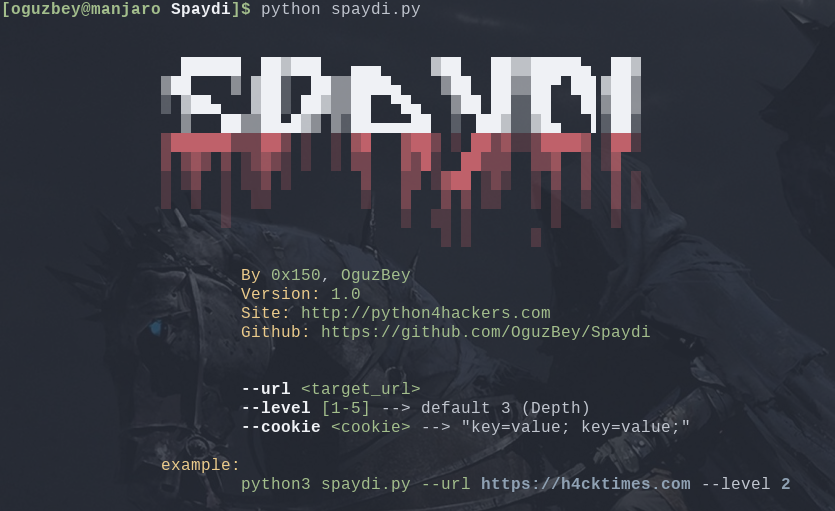
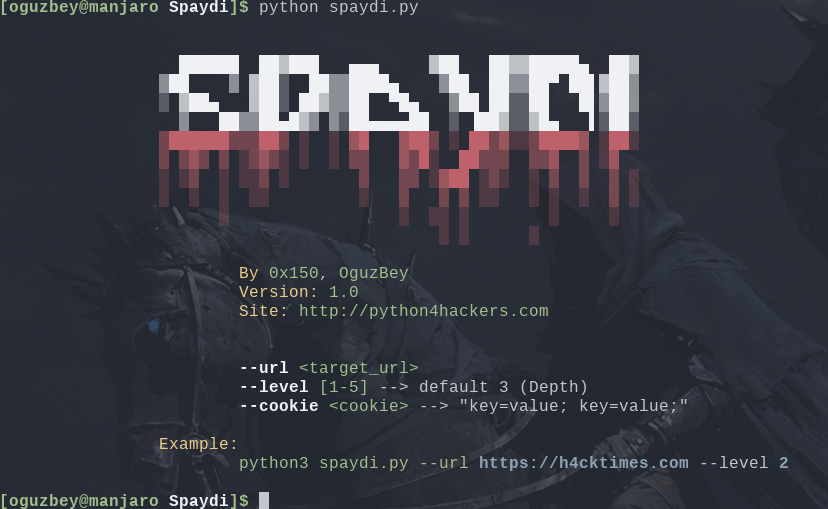
1.1.0
Screen shots

diff --git a/spaydi.py b/spaydi.py
@@ -1,9 +1,10 @@
 __author__ = "OguzBey"
-__version__ = "1.0"
+__version__ = "1.1.0"
 __email__ = "info@oguzbeg.com"
 
 from modules import spider
 import sys
+import os
 
 B_RED = spider.B_RED
 B_WHITE = spider.B_WHITE
@@ -17,6 +18,16 @@ class Main(object):
 	def __init__(self, args):
 		self.my_args = ["--url", "--cookie", "--level"]
 		self.args = args
+		self.current_path = os.path.dirname(os.path.realpath(__file__))
+		self.links_file = "links.txt"
+		self.forms_file = "forms.txt"
+		self.outputs_dir = "outputs"
+		self.links_file_path = os.path.join(self.current_path, self.outputs_dir\
+											, self.links_file)
+		self.forms_file_path = os.path.join(self.current_path, self.outputs_dir\
+											, self.forms_file)
+		if not os.path.exists(os.path.join(self.current_path, self.outputs_dir)):
+			os.mkdir(os.path.join(self.current_path, self.outputs_dir))
 
 	def get_args(self, args):
 		_args = dict()
@@ -30,6 +41,24 @@ class Main(object):
 				return False
 		return True
 
+	def write_file(self, listt, path, tire=False):
+		if tire is False:
+			with open(path, "w") as fl:
+				_write = ""
+				for i in listt:
+					_write += "{}\n".format(i)
+				_write = _write.rstrip("\n")
+				fl.write(_write)
+		else:
+			with open(path, "w") as fl:
+				_write = ""
+				for i in listt:
+					_write += "--"*30+"\n"
+					_write += "{}\n".format(i)
+					_write += "--"*30+"\n"
+				_write = _write.rstrip("\n")
+				fl.write(_write)
+
 	def start(self):
 		_args = self.get_args(self.args)
 		if not self.check_args(_args):
@@ -40,9 +69,20 @@ class Main(object):
 		_level = _args['--level'] if '--level' in _args else None
 		_cookie = _args['--cookie'] if '--cookie' in _args else None
 		logo()
+		self.spaydi = spider.Spider(url=_url, level=_level, cookie=_cookie)
 		try:
-			spider.Spider(url=_url, level=_level, cookie=_cookie).go()
+			urls, forms = self.spaydi.go()
+			self.write_file(urls, self.links_file_path)
+			self.write_file(forms, self.forms_file_path, tire=True)
+			print("[+]  {} : {}".format("Links", self.links_file_path))
+			print("[+]  {} : {}".format("Forms", self.forms_file_path))
+			print("[-] Done.")
 		except KeyboardInterrupt:
+			if self.spaydi.output_forms and self.spaydi.visited_urls:
+				self.write_file(self.spaydi.visited_urls, self.links_file_path)
+				self.write_file(self.spaydi.output_forms, self.forms_file_path, tire=True)
+				print("[+]  {} : {}".format("Links", self.links_file_path))
+				print("[+]  {} : {}".format("Forms", self.forms_file_path))
 			print("Bye")
 		except Exception as e:
 			print(e)
@@ -64,9 +104,8 @@ def logo():
 			{6}By{4} {7}{1}{4}, {7}{2}{4}
 			{6}Version:{4} {7}{0}{4}
 			{6}Site:{4} {7}{8}{4}
-			{6}Github:{4} {7}{9}{4}
 """.format(__version__, "0x150", __author__, B_WHITE, RESET, B_RED, YELLOW,
- 		   GREEN, "http://python4hackers.com", "https://github.com/OguzBey/Spaydi")
+ 		   GREEN, "http://python4hackers.com")
 	print(_1)
 
 
@@ -77,7 +116,7 @@ def help():
 			{0}--level{1} {2}[1-5]{1} --> default 3 (Depth)
 			{0}--cookie{1} {2}<cookie>{1} --> "key=value; key=value;"
 
-	        {3}example:{1}
+	        {3}Example:{1}
 			{2}python3 spaydi.py --url {4}https://h4cktimes.com{1} --level {4}2{1}
 	""".format(B_WHITE, RESET, GREEN, YELLOW, B_BLUE)
 	print(_text)

diff --git a/modules/spider.py b/modules/spider.py
@@ -18,6 +18,7 @@ class Spider(object):
 		self.cookie = cookie
 		self.target_url = url
 		self.visited_urls = []
+		self.output_forms = []
 		self.visit_urls = []
 		self.printed_action = []
 		self.target_domain = self.get_domain(self.target_url)
@@ -42,6 +43,7 @@ class Spider(object):
 			return "http://{}/{}".format(self.target_domain, link)
 
 	def print_forms(self, forms):
+		_form = ""
 		print("{1}Page Title:{2} {3}{0}{2}".format(self.browser.page_title,
 												   B_BLUE, RESET, GREEN))
 		print("{1}Set-Cookie:{2} {3}{0}{2}".format(self.browser.set_cookie,
@@ -52,13 +54,18 @@ class Spider(object):
 			print("-"*30+"<FORM>"+"-"*30)
 			print("{1}Page URL :{2} {3}{0}{2}".format(i['url'], B_BLUE, RESET,
 			 										  GREEN))
-			print("{1}ACTION:{2} {3}{0}{2}".format(i['form_action'].upper(),
+			print("{1}ACTION:{2} {3}{0}{2}".format(i['form_action'].lower(),
 												   B_BLUE, RESET, GREEN))
 			print("{1}METHOD:{2} {3}{0}{2}".format(i['form_method'].upper(),
 												   B_BLUE, RESET, GREEN))
-
+			_form += "Page Title: {}\n".format(self.browser.page_title)
+			_form += "Set-Cookie: {}\n".format(self.browser.set_cookie)
+			_form += "Page Url: {}\n".format(i['url'])
+			_form += "ACTION: {}\n".format(i['form_action'].lower())
+			_form += "METHOD: {}\n".format(i['form_method'].upper())
 			for input in i['inputs']:
 				_text = "{0}[input]{1}{2} ".format(B_BLUE, RESET, GREEN)
+				_form += "[input] "
 				_name = input['name']
 				_type = input['type']
 				_value = input['value']
@@ -66,20 +73,27 @@ class Spider(object):
 				_text += "{1}name{2}={3}'{0}'{2}, ".format(_name, YELLOW, RESET,
 				 										   GREEN) if _name \
 														   is not "" else ""
+				_form += "name='{}', ".format(_name) if _name is not "" else ""
 				_text += "{1}type{2}={3}'{0}'{2}, ".format(_type, YELLOW, RESET,
 				 										   GREEN) if _type \
 														   is not "" else ""
+				_form += "type='{}', ".format(_type) if _type is not "" else ""
 				_text += "{1}value{2}={3}'{0}{2}', ".format(_value, YELLOW,
 															RESET, GREEN) \
 															if _value is not "" \
 															else ""
+				_form += "value='{}', ".format(_value) if _value is not "" else ""
 				_text += "{1}placeholder{2}={3}'{0}'{2}".format(_placeholder,
 																YELLOW, RESET,
 																GREEN) \
 																if _placeholder \
 																is not "" else ""
+				_form += "placeholder='{}', ".format(_placeholder) if _placeholder \
+													 is not "" else ""
+				_form += "\n"
 				print(_text+RESET)
 			self.printed_action.append(i['form_action'])
+			self.output_forms.append(_form)
 			print("-"*30+"</FORM>"+"-"*30)
 
 	def clean_link(self, link):
@@ -139,6 +153,7 @@ class Spider(object):
 				self.loop()
 		else:
 			print(stat)
+		return self.visited_urls, self.output_forms
 
 if __name__ == '__main__':
 	pass
